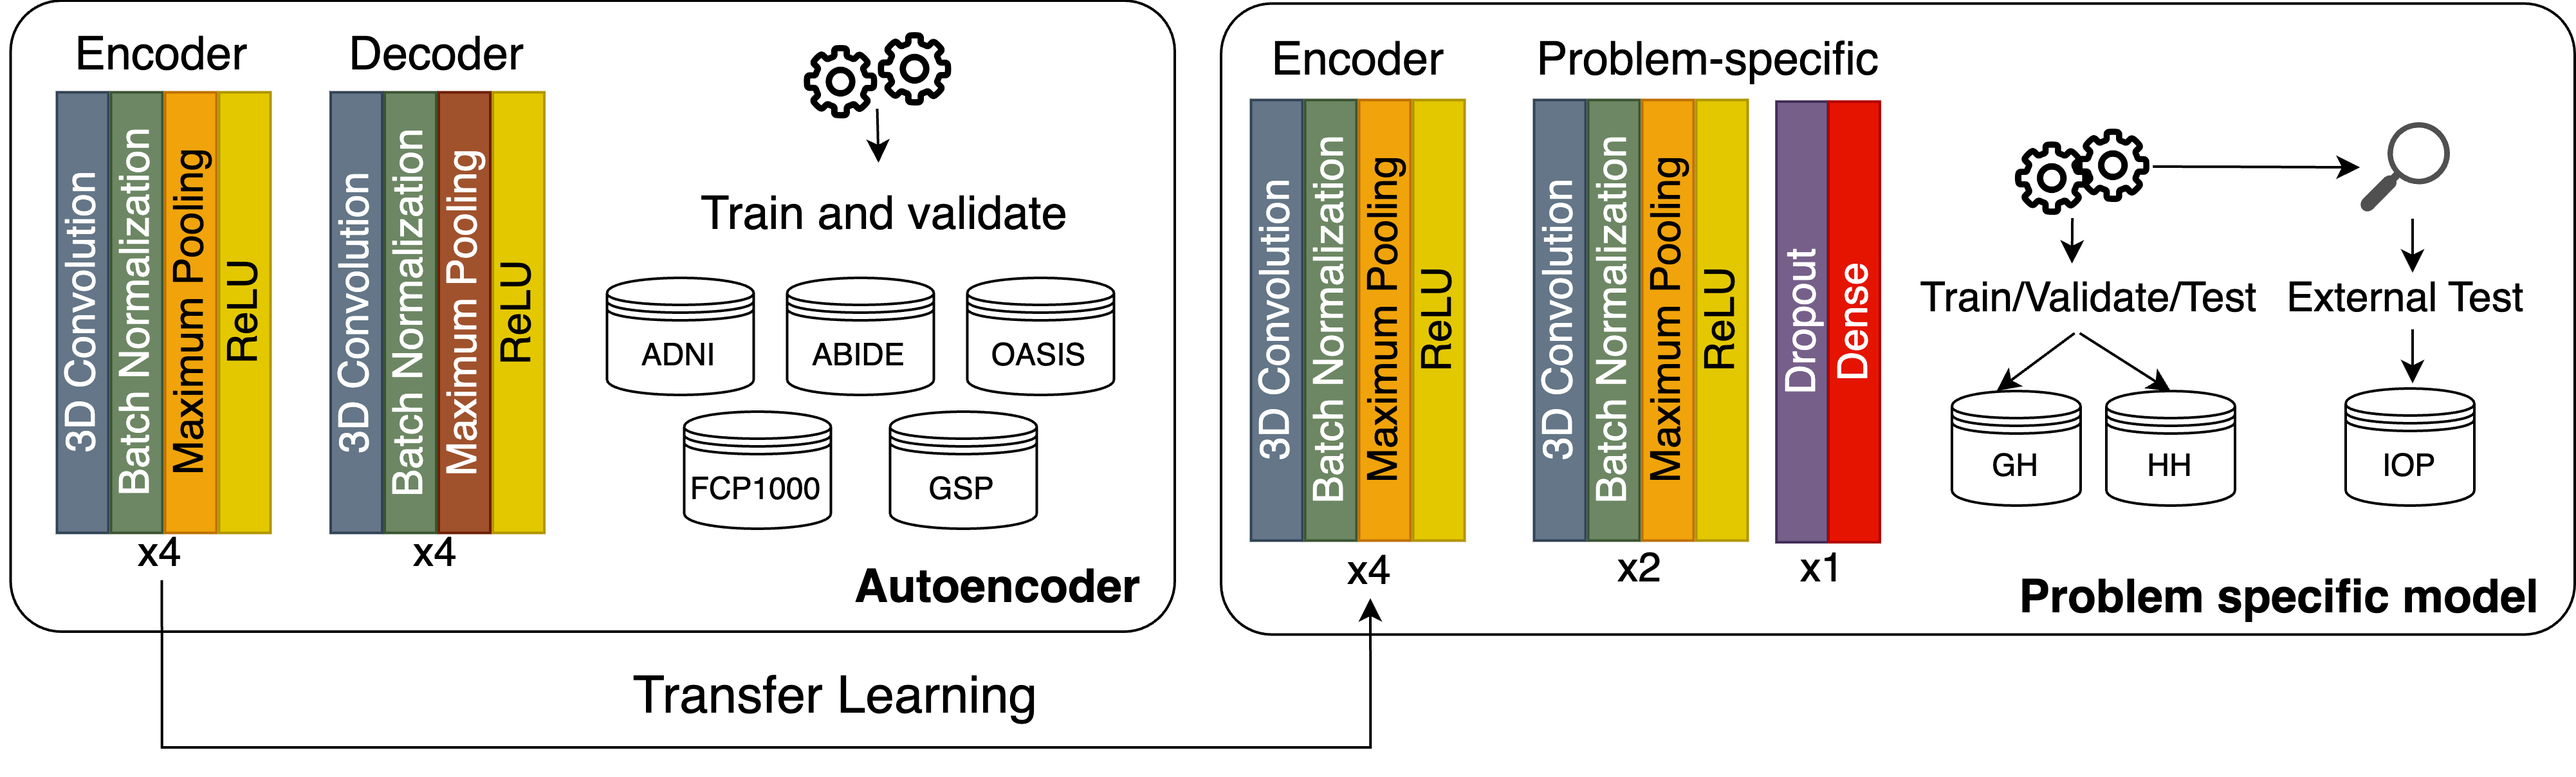
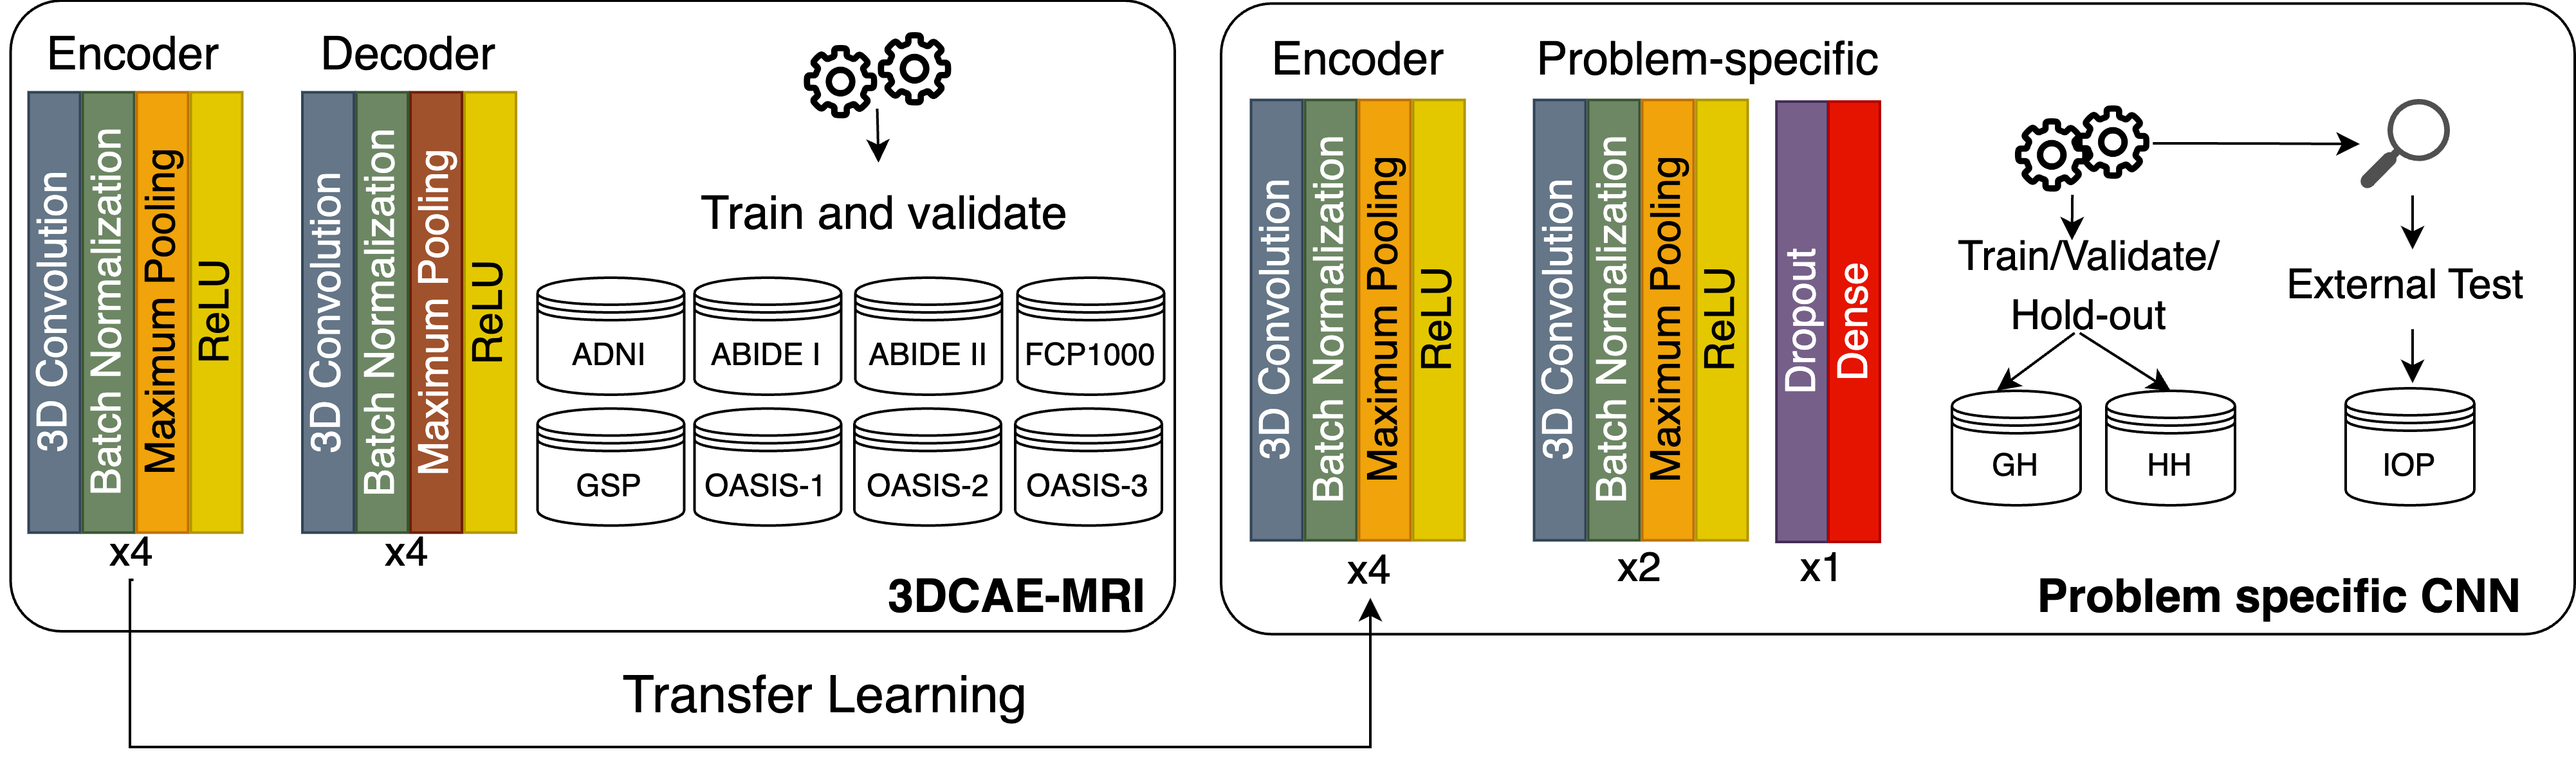
Updated ReadME

diff --git a/README.md b/README.md
@@ -1,6 +1,6 @@
 ![Python-Version](https://img.shields.io/badge/python-3.10-blue)
 
-# Overcoming Data Availability in MRI Studies: Leveraging Off-the-Shelf Deep Learning Models
+# 3DCAE-MRI: Overcoming Data Availability in Small Sample Size MRI Studies
 
 
 ![encoder](https://github.com/mfmachado/transfer-learning-age-sex-prediction/blob/main/resources/autoencoder.png)
